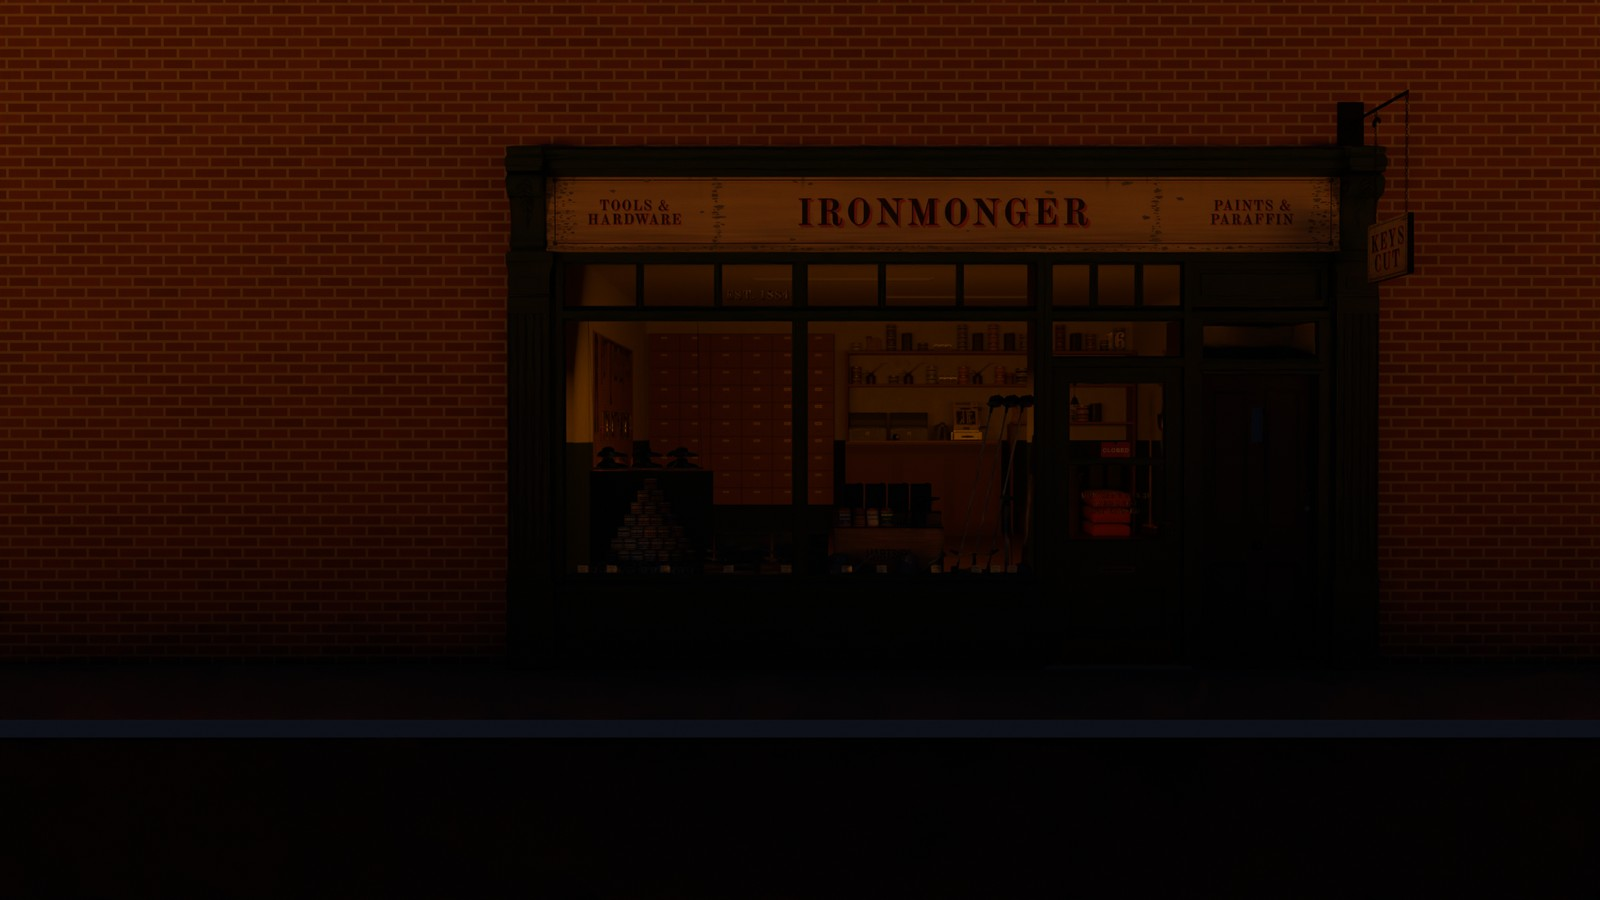
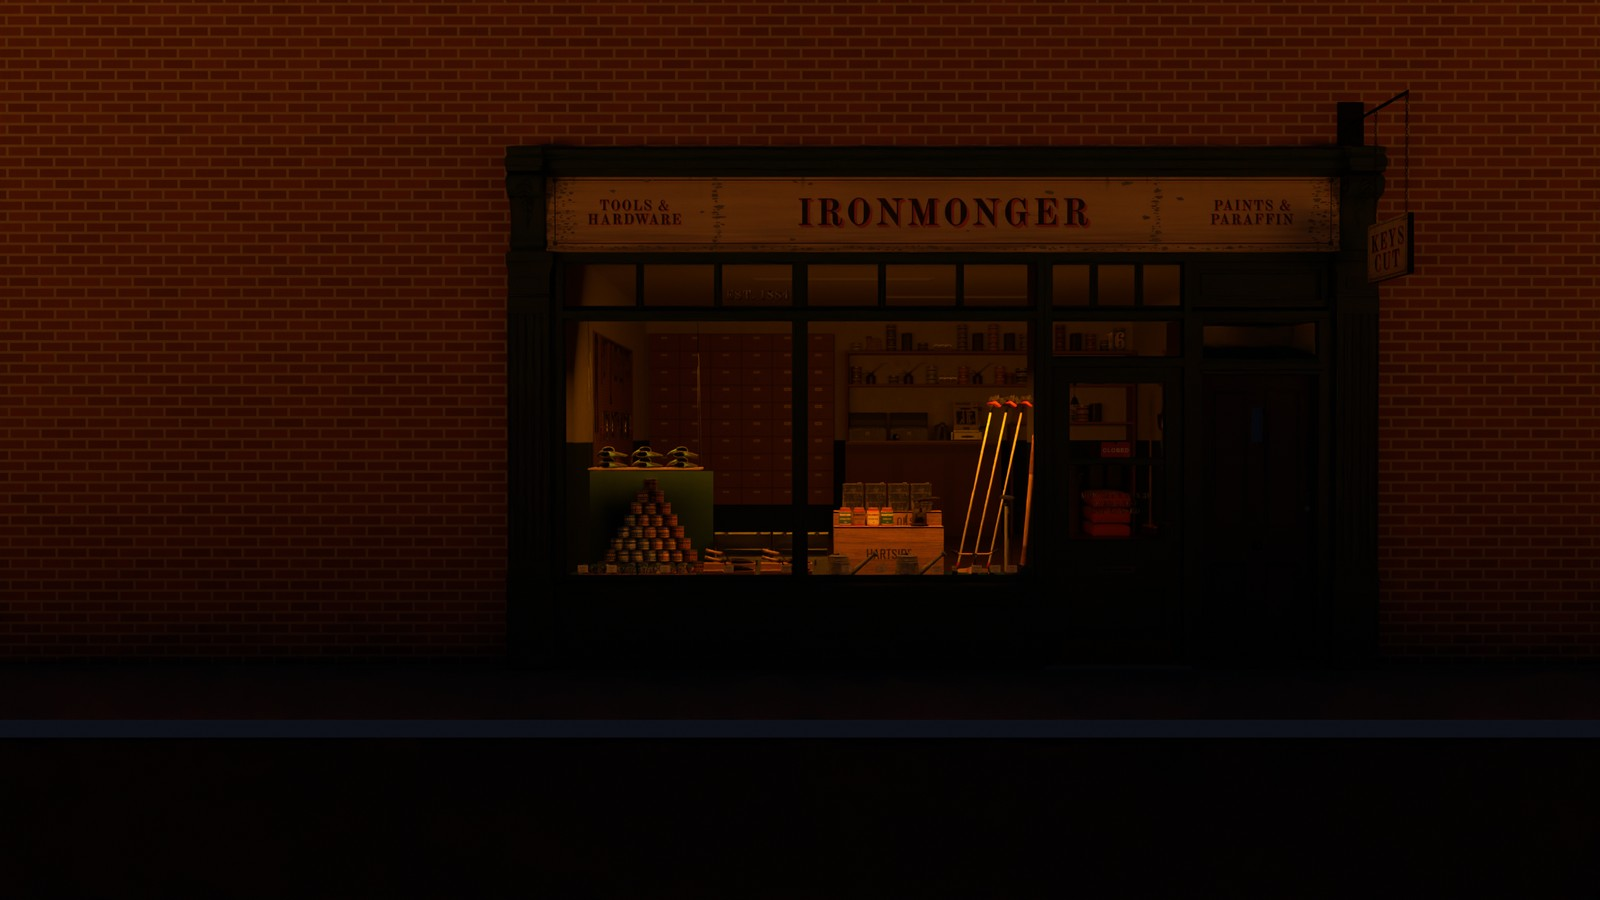
Cloud week 42, unit 7 stage 2 try 2: gate fix in progress (night_dark display wash, paint reflections), ironmonger night_dark picture re-rendered
Claude-Session: https://claude.ai/code/session_016WoLPSCSZCiXXEjj4xjmdm

Changed region(s): [[0.3438, 0.4356, 0.6562, 0.6533]]

diff --git a/production/cloud-week/kit/shop-windows/sw_gate.py b/production/cloud-week/kit/shop-windows/sw_gate.py
@@ -43,7 +43,7 @@ SPILL_POS = (0.975, 0.10, 2.30)        # the stand-in rect light, model frame (R
 PIERS = {"x": ((-3.0, -2.65), (2.65, 3.0)), "y": (0.0, 0.30), "z": (0.0, 3.56)}     # the brick piers behind the pilasters (sw_front.PIERS_X; street review N2)
 STRIP_AT = ((0.20, 0.377), (0.24, 0.727))     # the two strip lights' (v, w) in the display's frame (close review 1): 8 mm under the middle and the top tier boards' front edges
 STRIP_W = 0.0                                  # their strength in Blender watts: set from gate_lights.json (strip_w) by the gate stage
-WASH_W = 150.0                                # 15 Oct, try 2 (ironmonger try 2 street review, narrow 2): the sodium wash that lights the DISPLAY at night_dark, Blender watts (gate_lights_extra.json `wash_w` per shop)
+WASH_W = 20.0                                 # 15 Oct, try 2 (ironmonger try 2 street review, narrow 2): the sodium wash that lights the DISPLAY at night_dark, Blender watts (gate_lights_extra.json `wash_w` per shop)
 CARD_X0, CARD_Y, CARD_BOTTOM = 15.35, 5.875, 0.65         # Rita's (the other shops': sw_ctx.Ctx.card_*)
 CARD_BOTTOM_M = CARD_BOTTOM - 0.10          # the card's bottom in the front model's z (above the footway)
 BAY_MID_X = 18.0
